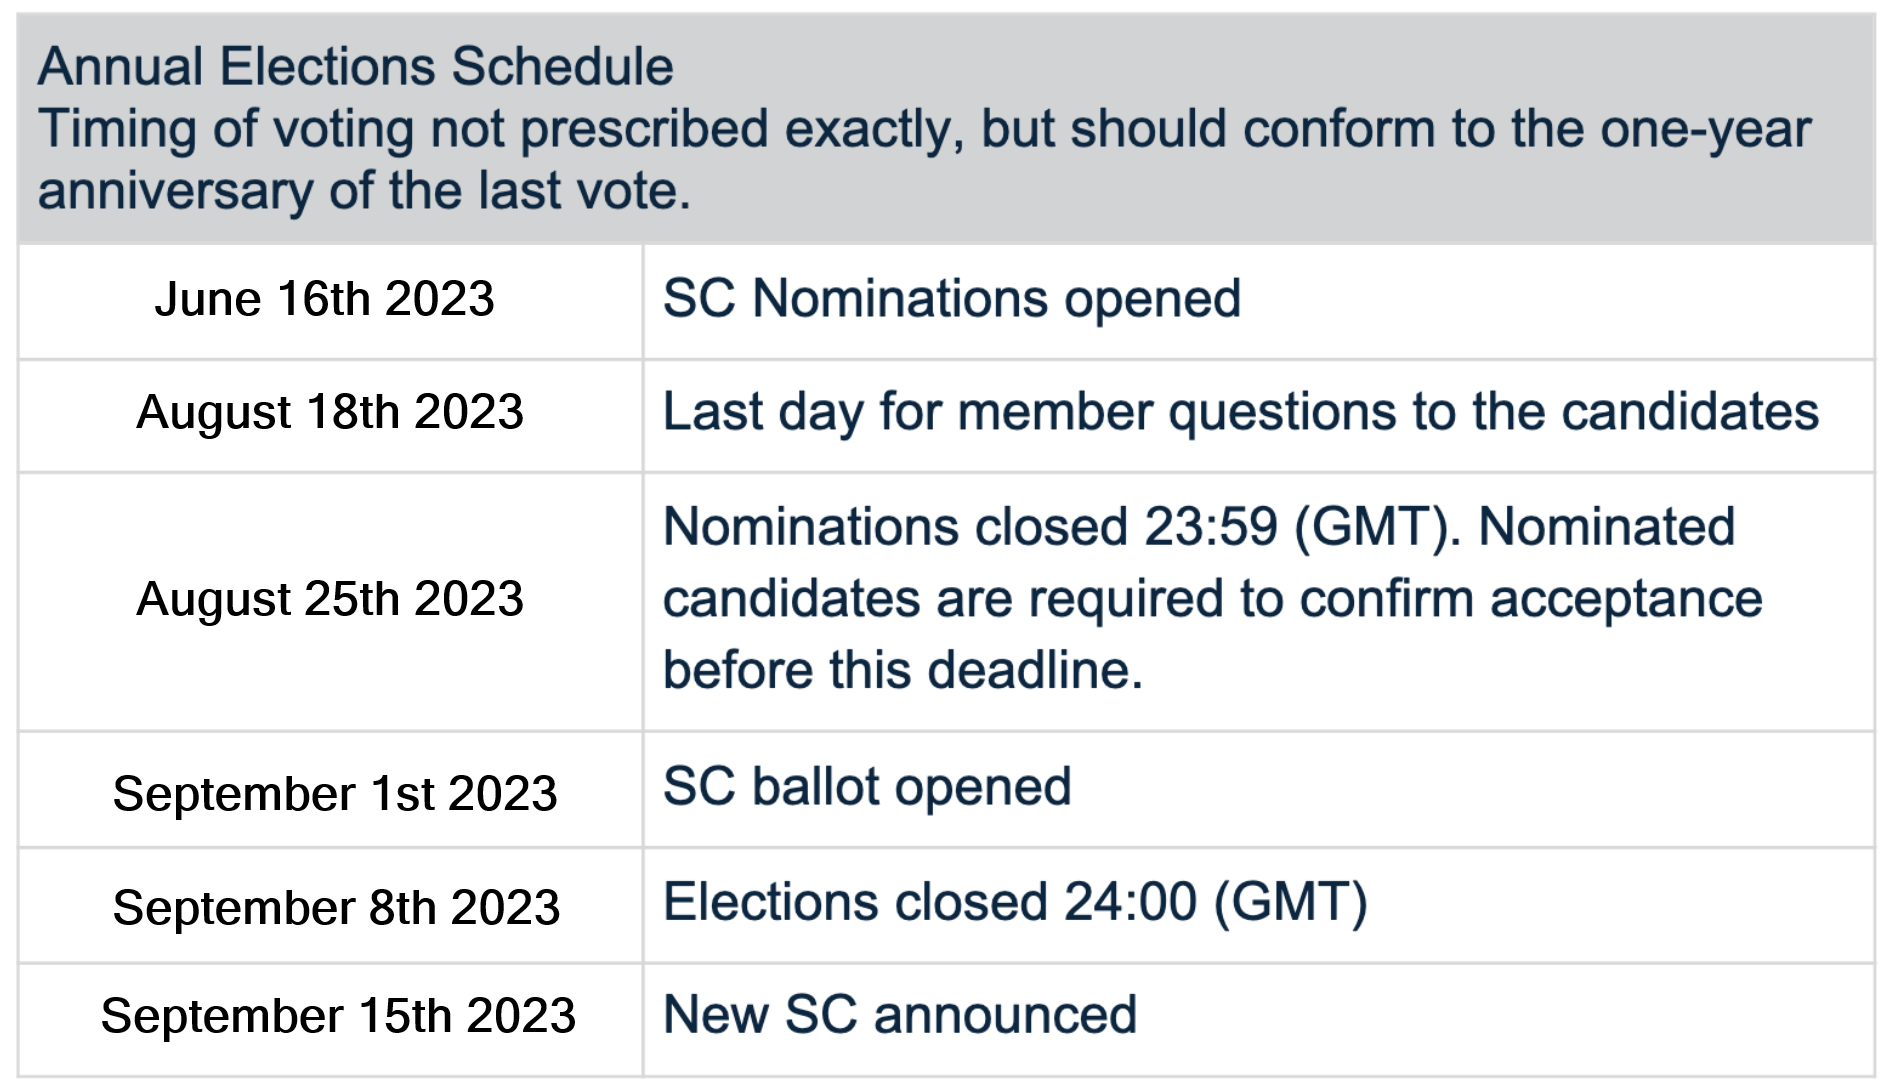
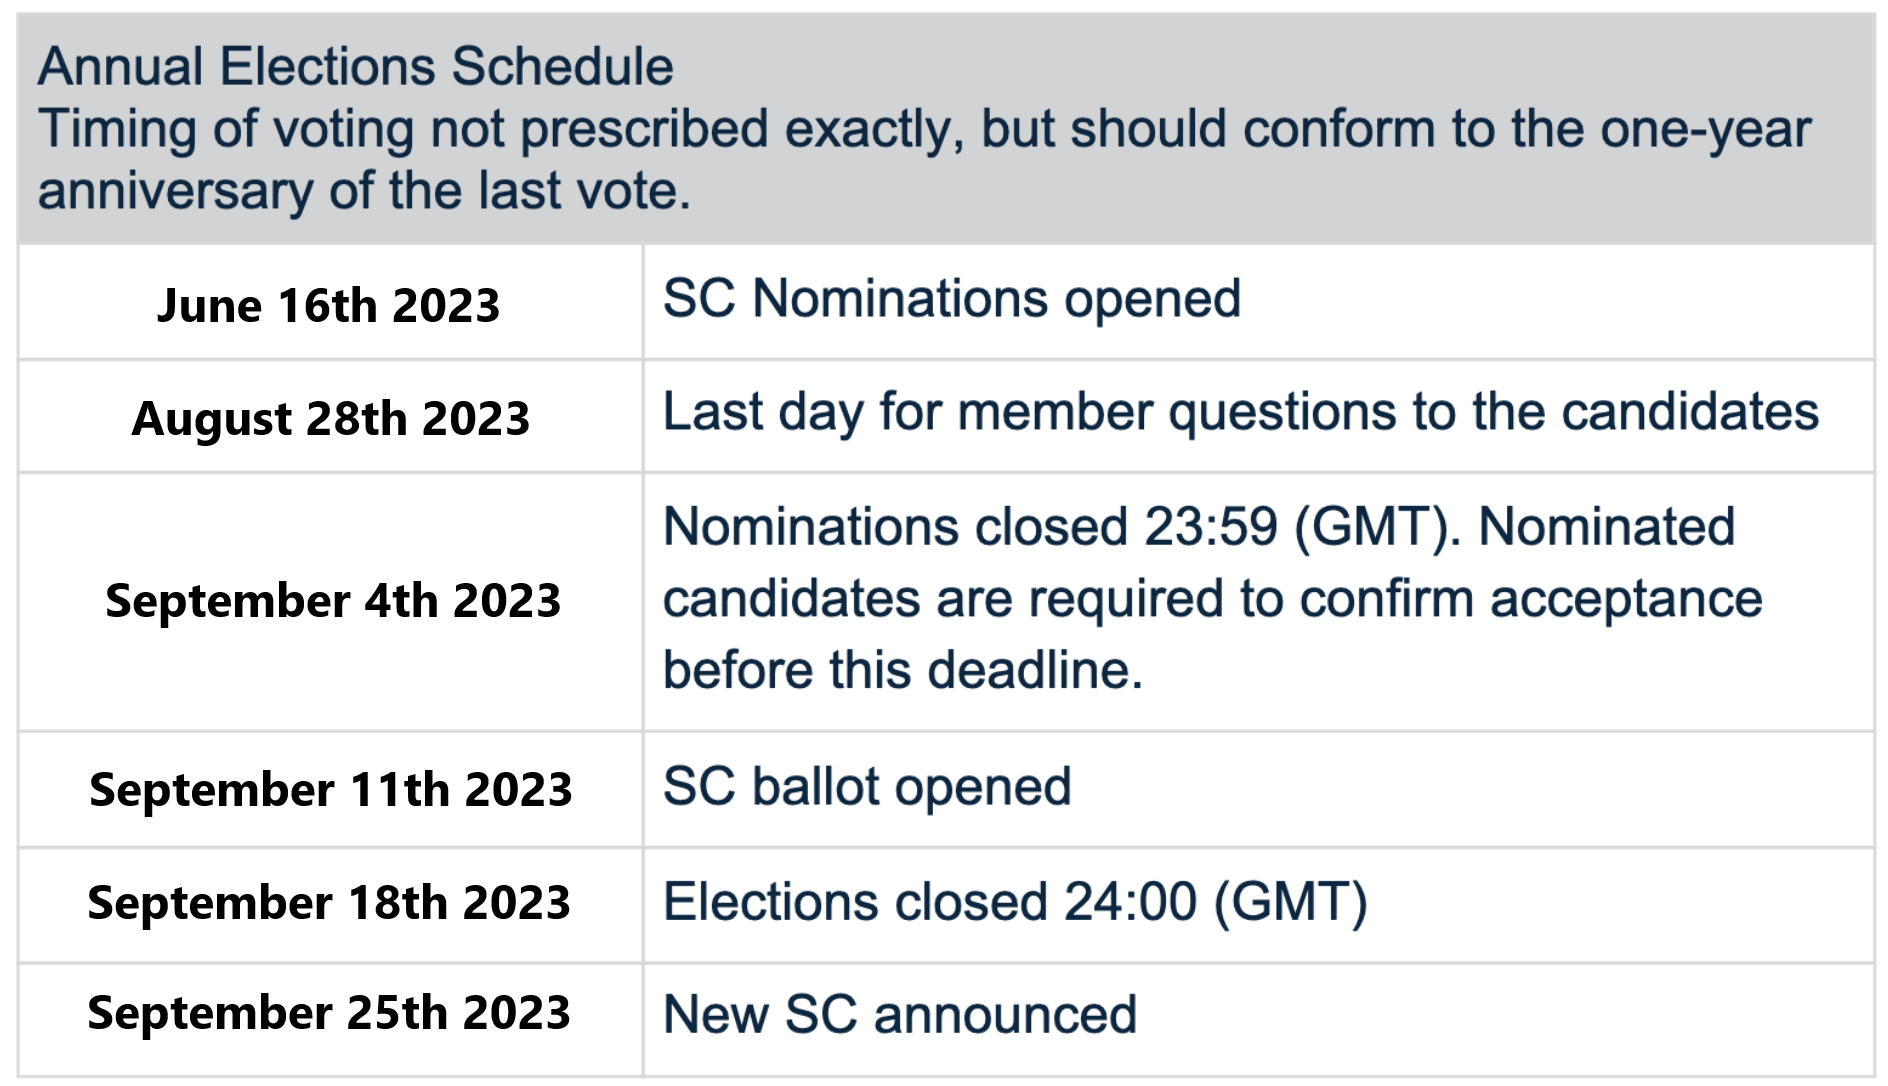
Election updates

diff --git a/templates/pages/election2023/index.html b/templates/pages/election2023/index.html
@@ -63,7 +63,7 @@
                   <li>The Individual should be nominated for their personal qualifications and commitment, not solely for their company or organizational affiliation</li>
               </lu>
             <br>
-            <p><b>email nominations@identity.foundation with details of the person you would like to be a DIF Steering Committee Member</b></p>
+            <p><b>email <a href="mailto:nominations@identity.foundation">nominations@identity.foundation</a> with details of the person you would like to be a DIF Steering Committee Member</b></p>
             <p>(you may self-nominate too !)</p>
             </div>
             <br>
@@ -83,13 +83,13 @@
             <li>These will be audited confidentially and not published in any way (not even as tallies). </li>
             <li>If one member organization accidentally votes more than once, DIF staff will reply to the emails to clarify the issue, so please use a monitored/normal email address in the organization's domain rather than personal accounts or "alts." </li>
             <li>All ballots are assumed to be collective/company-wide decisions even if multiple are received.</li>
-            <li>The voting is open between the 1st and the 8th of September 2023. The deadline for the last vote is 23:59 GMT on the 8th of September.</li>
+            <li>The voting is open between the 11th and the 18th of September 2023. The deadline for the last vote is 23:59 GMT on the 18th of September.</li>
           </lu>
           </div>
           <div class="section-title text-center">
             <br>
             <br>
-            <p><b>If you have any questions, queries or would like to know more, please email us at nominations@identity.foundation</b></p>
+            <p><b>If you have any questions, queries or would like to know more, please email us at <a href="mailto:nominations@identity.foundation">nominations@identity.foundation</a></b></p>
             <br>
             <br>
           </div>

diff --git a/docs/election2023/index.html b/docs/election2023/index.html
@@ -231,7 +231,7 @@
                   <li>The Individual should be nominated for their personal qualifications and commitment, not solely for their company or organizational affiliation</li>
               </lu>
             <br>
-            <p><b>email nominations@identity.foundation with details of the person you would like to be a DIF Steering Committee Member</b></p>
+            <p><b>email <a href="mailto:nominations@identity.foundation">nominations@identity.foundation</a> with details of the person you would like to be a DIF Steering Committee Member</b></p>
             <p>(you may self-nominate too !)</p>
             </div>
             <br>
@@ -251,13 +251,13 @@
             <li>These will be audited confidentially and not published in any way (not even as tallies). </li>
             <li>If one member organization accidentally votes more than once, DIF staff will reply to the emails to clarify the issue, so please use a monitored/normal email address in the organization's domain rather than personal accounts or "alts." </li>
             <li>All ballots are assumed to be collective/company-wide decisions even if multiple are received.</li>
-            <li>The voting is open between the 11th and the 18th of August. The deadline for the last vote is 23:59 GMT on the 18th of August.</li>
+            <li>The voting is open between the 11th and the 18th of September 2023. The deadline for the last vote is 23:59 GMT on the 18th of September.</li>
           </lu>
           </div>
           <div class="section-title text-center">
             <br>
             <br>
-            <p><b>If you have any questions, queries or would like to know more, please email us at nominations@identity.foundation</b></p>
+            <p><b>If you have any questions, queries or would like to know more, please email us at <a href="mailto:nominations@identity.foundation">nominations@identity.foundation</a></b></p>
             <br>
             <br>
           </div>

diff --git a/docs/working-groups/claims-credentials.html b/docs/working-groups/claims-credentials.html
@@ -349,6 +349,11 @@
                   <div style="font-size: 85%; color: #777;">Specification that codifies an inter-related pair of data formats for defining proof presentations (Presentation Definition) and subsequent proof submissions (Presentation Submission)</div>
                 </a>
               
+                <a class="icon-link" href="https://github.com/decentralized-identity/presentation-exchange-tests" style="display: block; margin-bottom: 1em;">
+                  <strong>presentation-exchange-tests</strong>
+                  <div style="font-size: 85%; color: #777;">Testing tools for Presentation Exchange implementations</div>
+                </a>
+              
                 <a class="icon-link" href="https://github.com/decentralized-identity/presentation-request" style="display: block; margin-bottom: 1em;">
                   <strong>presentation-request</strong>
                   <div style="font-size: 85%; color: #777;">Requirements Analysis and Protocol Design for a VC Presentation Request Format</div>
